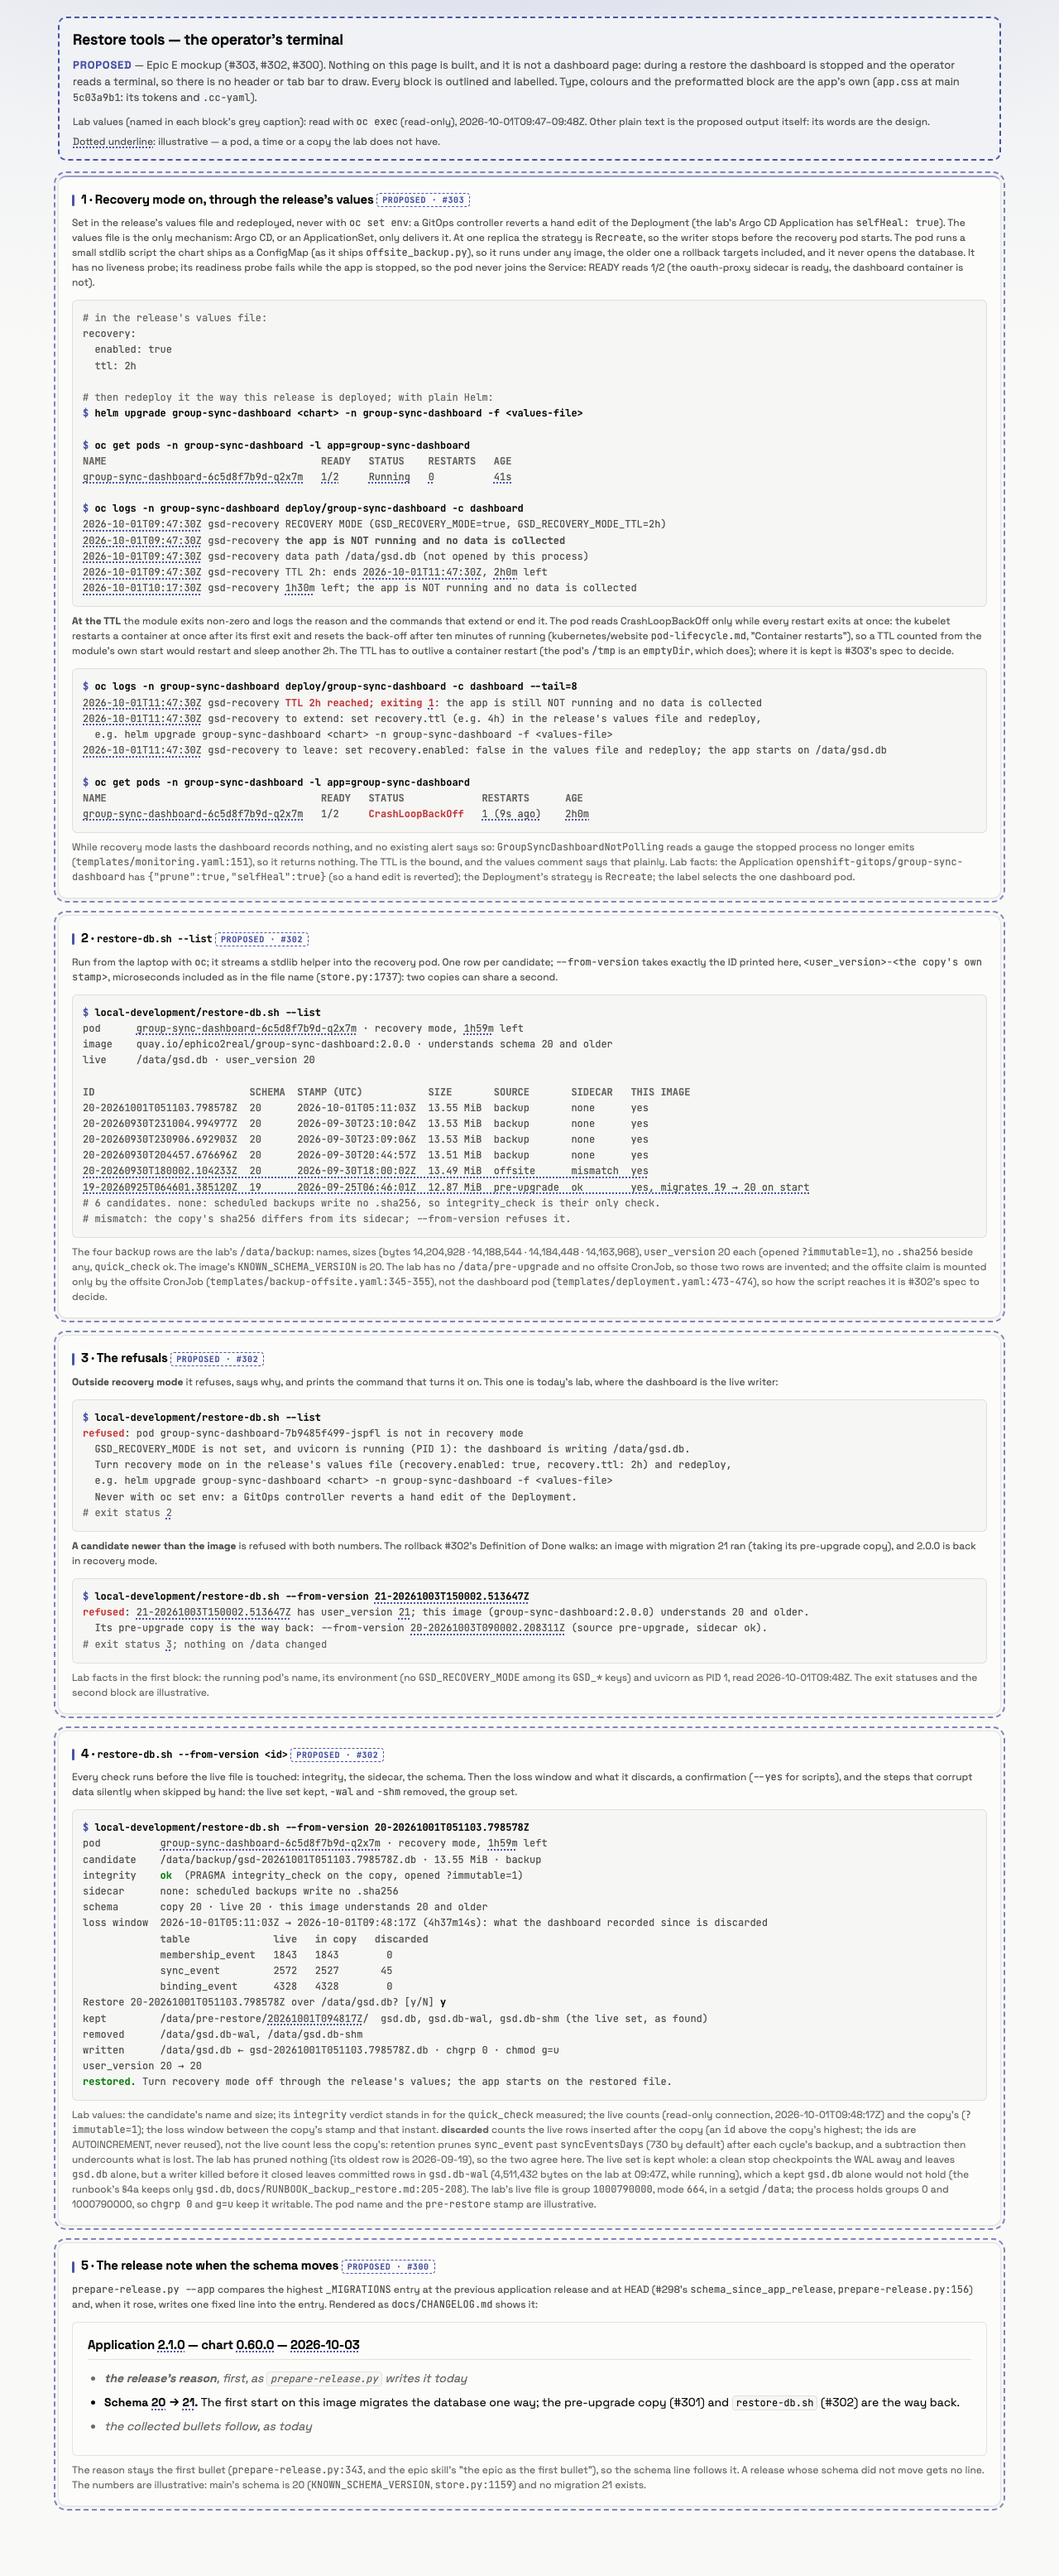
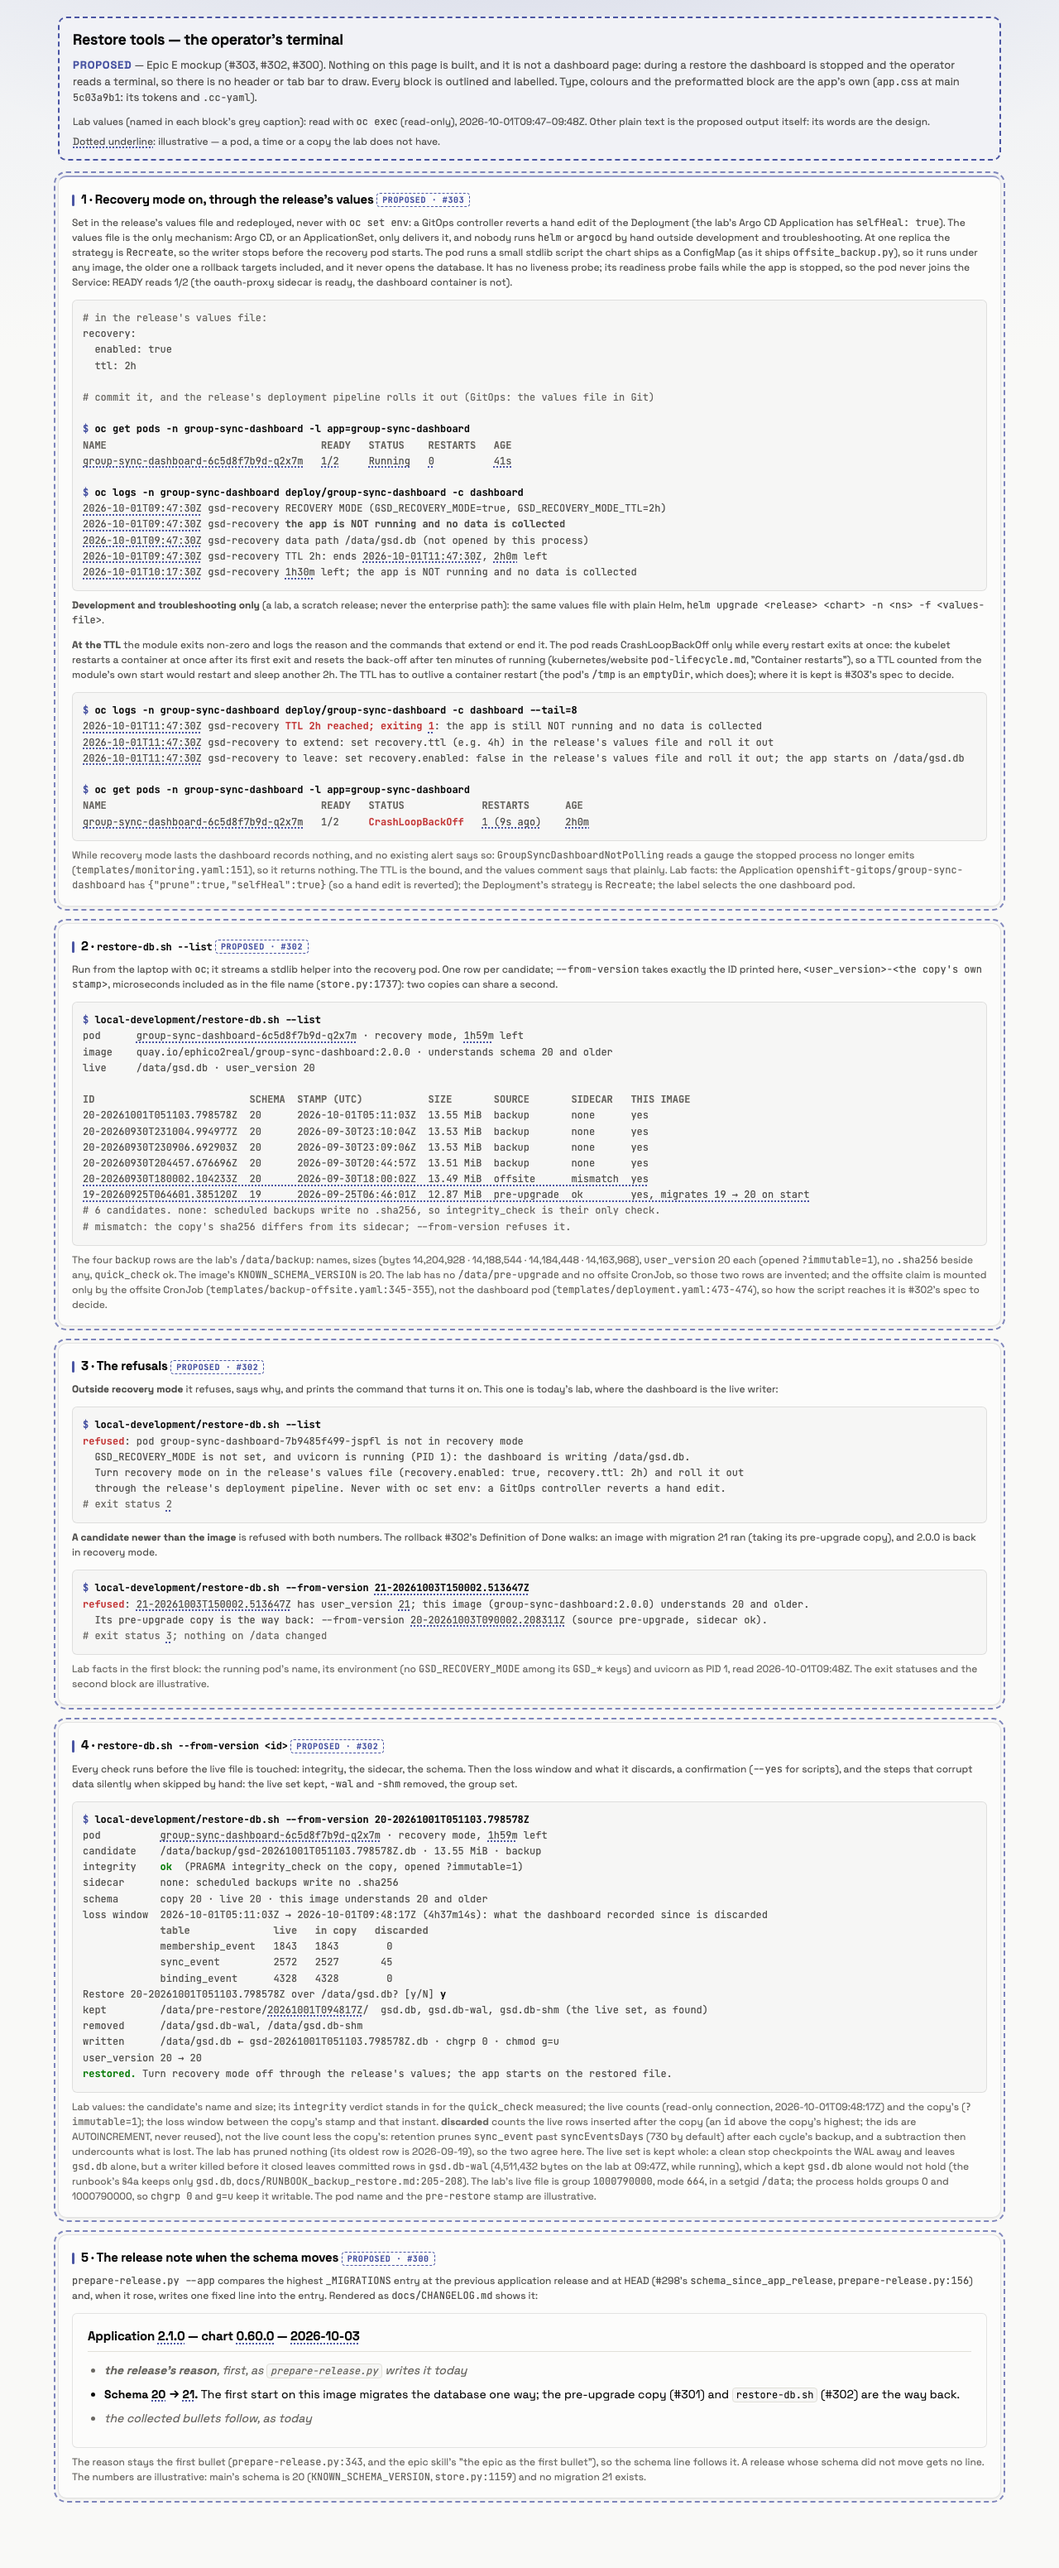
docs(design): the restore mock's path is the values file and the deployment pipeline — CLI only for development
The operator, 2026-10-01: "In a real enterprise — nobody uses manual cli to work on argocd or helm. we are only
using the cli and --set options only for troubleshooting and development."

Every step and message now says: set the value in the release's values file and roll it out through the release's
deployment pipeline. The plain `helm upgrade -f` form stays in one caption labelled development/troubleshooting only.

Changed region(s): [[0.0625, 0.0309, 0.9375, 0.9284]]

diff --git a/docs/design/restore-cli-mock.html b/docs/design/restore-cli-mock.html
@@ -1770,7 +1770,8 @@ pre.cc-yaml.term { white-space: pre; overflow-wrap: normal; word-break: normal; 
     <h2>1 · Recovery mode on, through the release's values <span class="tag-proposed">proposed · #303</span></h2>
     <p class="cap">Set in the release's values file and redeployed, never with <code>oc set env</code>: a GitOps controller
       reverts a hand edit of the Deployment (the lab's Argo CD Application has <code>selfHeal: true</code>). The values
-      file is the only mechanism: Argo CD, or an ApplicationSet, only delivers it. At one replica the
+      file is the only mechanism: Argo CD, or an ApplicationSet, only delivers it, and nobody runs <code>helm</code> or
+      <code>argocd</code> by hand outside development and troubleshooting. At one replica the
       strategy is <code>Recreate</code>, so the writer stops before the recovery pod starts. The pod runs
       a small stdlib script the chart ships as a ConfigMap (as it ships <code>offsite_backup.py</code>), so it runs under any
       image, the older one a rollback targets included, and it never opens the database. It has no liveness probe; its
@@ -1781,8 +1782,7 @@ recovery:
   enabled: true
   ttl: 2h
 
-<span class="c"># then redeploy it the way this release is deployed; with plain Helm:</span>
-<span class="p">$ </span><span class="cmd">helm upgrade group-sync-dashboard &lt;chart&gt; -n group-sync-dashboard -f &lt;values-file&gt;</span>
+<span class="c"># commit it, and the release's deployment pipeline rolls it out (GitOps: the values file in Git)</span>
 
 <span class="p">$ </span><span class="cmd">oc get pods -n group-sync-dashboard -l app=group-sync-dashboard</span>
 <span class="hd">NAME                                    READY   STATUS    RESTARTS   AGE</span>
@@ -1794,6 +1794,8 @@ recovery:
 <span class="il">2026-10-01T09:47:30Z</span> gsd-recovery data path /data/gsd.db (not opened by this process)
 <span class="il">2026-10-01T09:47:30Z</span> gsd-recovery TTL 2h: ends <span class="il">2026-10-01T11:47:30Z</span>, <span class="il">2h0m</span> left
 <span class="il">2026-10-01T10:17:30Z</span> gsd-recovery <span class="il">1h30m</span> left; the app is NOT running and no data is collected</pre>
+    <p class="cap"><b>Development and troubleshooting only</b> (a lab, a scratch release; never the enterprise path):
+      the same values file with plain Helm, <code>helm upgrade &lt;release&gt; &lt;chart&gt; -n &lt;ns&gt; -f &lt;values-file&gt;</code>.</p>
     <p class="cap"><b>At the TTL</b> the module exits non-zero and logs the reason and the commands that extend or end it.
       The pod reads CrashLoopBackOff only while every restart exits at once: the kubelet restarts a container at once
       after its first exit and resets the back-off after ten minutes of running (kubernetes/website
@@ -1802,9 +1804,8 @@ recovery:
       <code>emptyDir</code>, which does); where it is kept is #303's spec to decide.</p>
 <pre class="cc-yaml term"><span class="p">$ </span><span class="cmd">oc logs -n group-sync-dashboard deploy/group-sync-dashboard -c dashboard --tail=8</span>
 <span class="il">2026-10-01T11:47:30Z</span> gsd-recovery <span class="bad">TTL 2h reached; exiting <span class="il">1</span></span>: the app is still NOT running and no data is collected
-<span class="il">2026-10-01T11:47:30Z</span> gsd-recovery to extend: set recovery.ttl (e.g. 4h) in the release's values file and redeploy,
-  e.g. helm upgrade group-sync-dashboard &lt;chart&gt; -n group-sync-dashboard -f &lt;values-file&gt;
-<span class="il">2026-10-01T11:47:30Z</span> gsd-recovery to leave: set recovery.enabled: false in the values file and redeploy; the app starts on /data/gsd.db
+<span class="il">2026-10-01T11:47:30Z</span> gsd-recovery to extend: set recovery.ttl (e.g. 4h) in the release's values file and roll it out
+<span class="il">2026-10-01T11:47:30Z</span> gsd-recovery to leave: set recovery.enabled: false in the release's values file and roll it out; the app starts on /data/gsd.db
 
 <span class="p">$ </span><span class="cmd">oc get pods -n group-sync-dashboard -l app=group-sync-dashboard</span>
 <span class="hd">NAME                                    READY   STATUS             RESTARTS      AGE</span>
@@ -1852,9 +1853,8 @@ live     /data/gsd.db · user_version 20
 <pre class="cc-yaml term"><span class="p">$ </span><span class="cmd">local-development/restore-db.sh --list</span>
 <span class="bad">refused</span>: pod group-sync-dashboard-7b9485f499-jspfl is not in recovery mode
   GSD_RECOVERY_MODE is not set, and uvicorn is running (PID 1): the dashboard is writing /data/gsd.db.
-  Turn recovery mode on in the release's values file (recovery.enabled: true, recovery.ttl: 2h) and redeploy,
-  e.g. helm upgrade group-sync-dashboard &lt;chart&gt; -n group-sync-dashboard -f &lt;values-file&gt;
-  Never with oc set env: a GitOps controller reverts a hand edit of the Deployment.
+  Turn recovery mode on in the release's values file (recovery.enabled: true, recovery.ttl: 2h) and roll it out
+  through the release's deployment pipeline. Never with oc set env: a GitOps controller reverts a hand edit.
 <span class="c"># exit status <span class="il">2</span></span></pre>
     <p class="cap"><b>A candidate newer than the image</b> is refused with both numbers. The rollback #302's Definition of
       Done walks: an image with migration 21 ran (taking its pre-upgrade copy), and 2.0.0 is back in recovery mode.</p>
